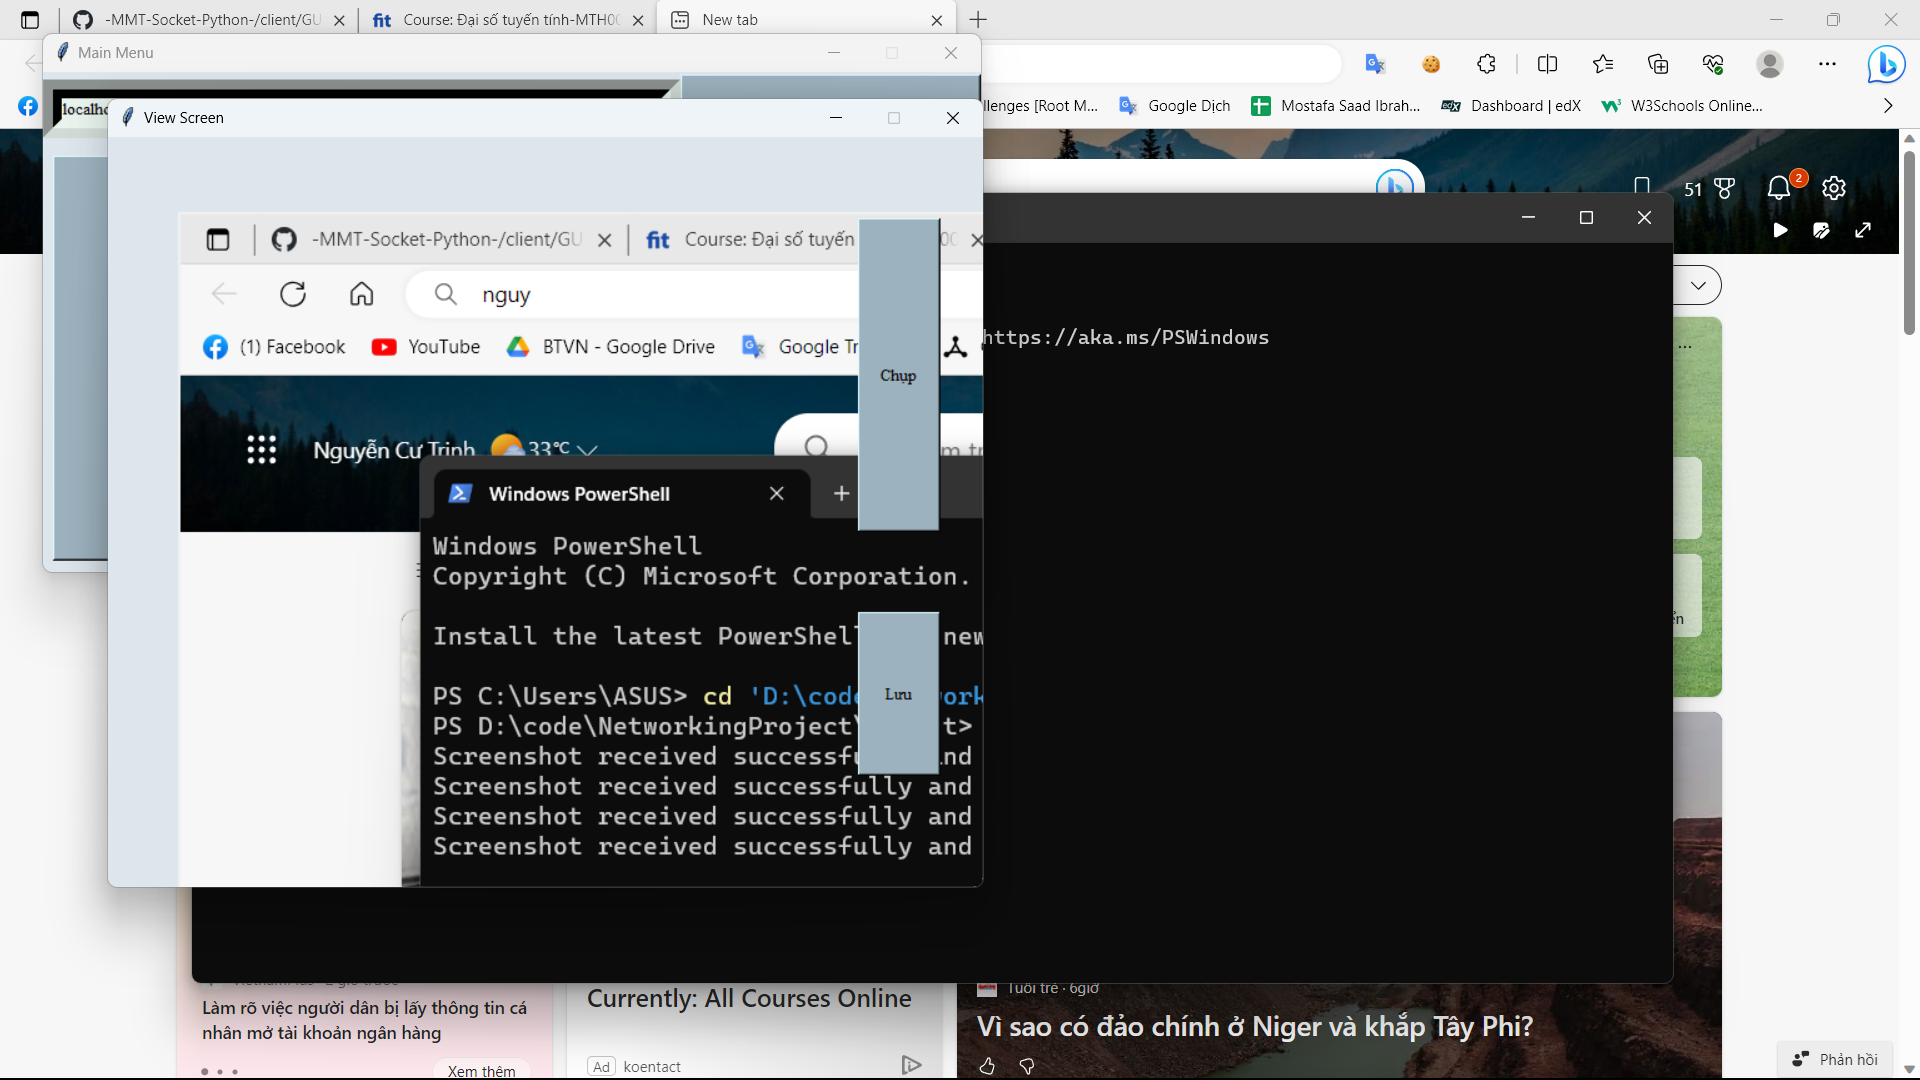
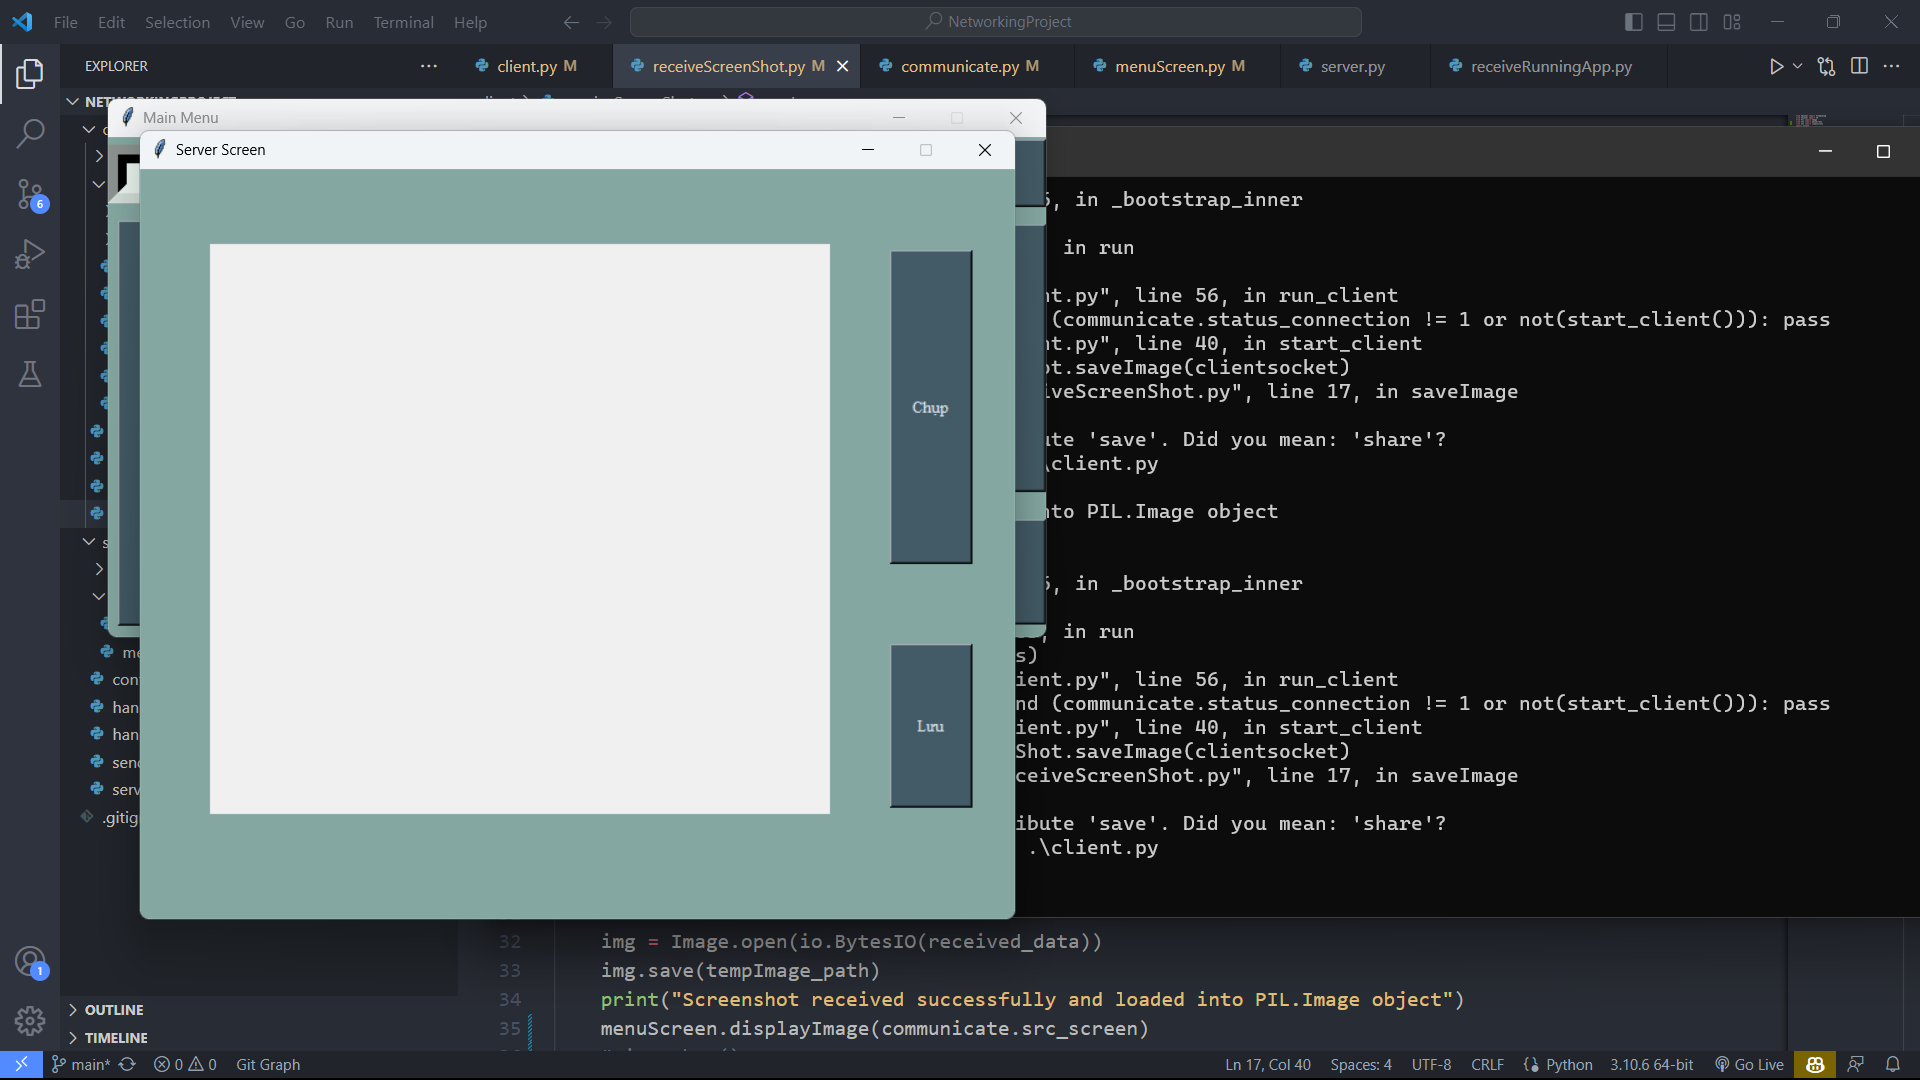
complete screenshot feauture

diff --git a/client/GUI/menuScreen.py b/client/GUI/menuScreen.py
@@ -2,7 +2,9 @@ from tkinter import *
 from tkinter import scrolledtext
 from tkinter import font
 from tkinter import Toplevel, Label, Button, PhotoImage
+from PIL import Image, ImageTk
 import os
+import time
 try:
     from . import communicate
     from .define import *
@@ -44,17 +46,21 @@ def start_window(root):
     Button(my_sta, text = "Start", width = 8).place(x = 200, y = 10)
 
 def displayImage(my_scr):
-    click_button("screenshot")
     script_dir = os.path.dirname(__file__)
-    img_path = os.path.join(script_dir, "tempData/Screenshot.png")
-    img = PhotoImage(file = img_path)
+    img_path = os.path.join(script_dir, "tempData/tempImage.png")
 
-    img_width = img.width()
-    img_height = img.height()
+    # Open and resize the image using Pillow
+    new_width = 490
+    new_height = 450
+    with Image.open(img_path) as img:
+        img = img.resize((new_width, new_height))
 
-    label = Label(my_scr, image = img, width = 500, height = 450)
-    label.image = img
-    label.place(relx = 0.08, rely = 0.1 )
+    # Convert PIL image to PhotoImage
+    img_tk = ImageTk.PhotoImage(img)
+
+    label = Label(my_scr, image=img_tk, width=new_width, height=new_height)
+    label.image = img_tk  # this is to prevent garbage collection of the img_tk object
+    label.place(relx=0.08, rely=0.1)
 
 def scr_window():
     my_scr = Toplevel(mainClient)
@@ -62,6 +68,7 @@ def scr_window():
     my_scr.configure(bg = COLOUR_BACKGROUND)
     my_scr.title('Server Screen')
     my_scr.resizable(False, False)
+    communicate.src_screen = my_scr
 
     # script_dir = os.path.dirname(__file__)
     # img_path = os.path.join(script_dir, "tempData/tempImage.png")
@@ -77,7 +84,7 @@ def scr_window():
     label = Label(my_scr, width = 70, height= 30)
     label.place(relx = 0.08, rely = 0.1 )
 
-    buton1 = Button(my_scr,text = 'Chụp',bg = COLOUR_BUTTON,fg = COLOUR_FONT,activeforeground = COLOUR_AFTER, font = fontWord, width = 8, height = 16, command = lambda: displayImage(my_scr))
+    buton1 = Button(my_scr,text = 'Chụp',bg = COLOUR_BUTTON,fg = COLOUR_FONT,activeforeground = COLOUR_AFTER, font = fontWord, width = 8, height = 16, command = lambda: click_button("screenshot"))
     buton2 = Button(my_scr,text = 'Lưu',bg = COLOUR_BUTTON,fg = COLOUR_FONT,activeforeground = COLOUR_AFTER, font = fontWord,width = 8, height = 8, command = lambda: click_button("saveimage"))
     buton1.place(x = 600, y = 65 )
     buton2.place(x = 600, y = 380 )

diff --git a/client/client.py b/client/client.py
@@ -15,7 +15,15 @@ def start_client():
     # host = '192.168.2.100'
     host = communicate.ipHost if communicate.ipHost else 'localhost'
     port = 9999
-    clientsocket.connect((host, port))
+    try:
+        clientsocket.connect((host, port))
+        communicate.status_connection = 2
+        print("Connection succesful")
+    except:
+        print("Failed to connect")
+        clientsocket.close()
+        communicate.init()
+        return False
     while True:
         # command = input("Enter message to send to server: ")
         while True:
@@ -29,7 +37,7 @@ def start_client():
         if len(command) > 1 : parameter = command[1]
         
         if flag == "screenshot": receiveScreenShot.readImage(clientsocket)
-        elif flag == "saveimage": receiveScreenShot.saveImage(clientsocket)
+        elif flag == "saveimage": receiveScreenShot.saveImage()
         elif flag == "listprocess": receiveProcess.receiveProcess(clientsocket)
         elif flag == "killprocess": receiveProcess.receiveStatus(clientsocket)
         elif flag == "listrunningapp": receiveRunningApp.receiveRunningApp(clientsocket)
@@ -42,12 +50,10 @@ def start_client():
         communicate.command = ''
     clientsocket.close()
     communicate.init()
+    return True
 
 def run_client():
-    while communicate.command != "QUIT":
-        if communicate.status_connection == 1 : 
-            start_client()
-            break
+    while (communicate.command != "QUIT") and (communicate.status_connection != 1 or not(start_client())): pass
 
 if __name__ == "__main__":
     backend_thread = threading.Thread(target=run_client)

diff --git a/client/receiveScreenShot.py b/client/receiveScreenShot.py
@@ -1,17 +1,20 @@
 from tkinter import filedialog
 from tkinter import Tk
 from PIL import Image 
+from GUI import menuScreen
+from GUI import communicate
 import struct
 import io
 
 tempImage_path = 'GUI/tempData/tempImage.png'
 
-def saveImage(img):
+def saveImage():
     root = Tk()
     root.withdraw()  # Hide the main window
     file_path = filedialog.asksaveasfilename(defaultextension=".png", filetypes=[("PNG files", "*.png"), ("All files", "*.*")])
-
+    
     if file_path:  # If a file path is provided
+        img = Image.open(tempImage_path)
         img.save(file_path)
         print(f"Screenshot saved to {file_path}")
     else:
@@ -29,6 +32,7 @@ def readImage(client_socket):
     img = Image.open(io.BytesIO(received_data))
     img.save(tempImage_path)
     print("Screenshot received successfully and loaded into PIL.Image object")
-    img.show()
+    menuScreen.displayImage(communicate.src_screen)
+    # img.show()
     # save = input("save?")
     # if (save == "y") : saveImage(img)

diff --git a/client/GUI/communicate.py b/client/GUI/communicate.py
@@ -1,9 +1,12 @@
 ipHost = ''
 command = '' 
+processDone = False
 status_connection = 0  #0 : disconnect, 1 : connecting, 2 : connected
+src_screen = None
 
 def init():
     global ipHost, command, status_connection
     ipHost = ''
     command = '' 
     status_connection = 0
+    src_screen = None
